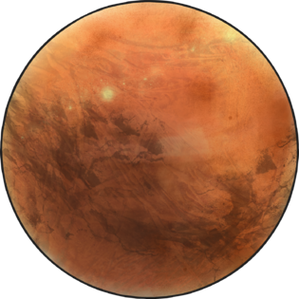
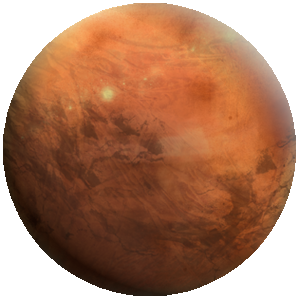
added ocean card, misc

Changed region(s): [[0.0, 0.0602, 0.903, 1.0], [0.2709, 0.0, 1.0, 0.7826]]

diff --git a/front/src/app/components/player-info/ocean-card/ocean-card.component.scss b/front/src/app/components/player-info/ocean-card/ocean-card.component.scss
@@ -1,0 +1,109 @@
+.main{
+	position: relative;
+	display: flex;
+	justify-content: center;
+	align-items: center;
+	height: 100%;
+	width: 100%;
+}
+.background{
+	position: absolute;
+	height: 100%;
+	width: 100%;
+	img {
+		height: 100%;
+		aspect-ratio: 1;
+	}
+}
+.foreground{
+	z-index: 1;
+	position: absolute;
+	width: 100%;
+	height: 100%;
+	border-radius: 50%;
+	background-image: linear-gradient(35deg, rgba(0,0,0, .4) 30%, transparent 40%, transparent 60%, rgba(255,255,255, .5) 80%);
+}
+.ocean-grid{
+	position: relative;
+	display: grid;
+	grid-template-columns: .5fr 1fr .5fr 1fr .5fr 1fr .5fr 1fr .5fr;
+	grid-template-rows: 1fr 1fr 1fr 1fr 1fr 1fr 1fr;
+
+	top: -3%;
+	left: 3%;
+	width: 75%;
+	height: 75%;
+}
+.ocean{
+	$width: 25%;
+	$border-thickness: 2px;
+	$inner-offset: calc($border-thickness / 2);
+
+	display: flex;
+	align-items: center;
+
+	width: 100%;
+	height: 100%;
+
+	.shape{
+		width: 95%;
+		height: 95%;
+		background-color: white;
+		-webkit-clip-path: polygon(0% 50%, #{$width} 0%, calc(100% - #{$width}) 0%, 100% 50%, calc(100% - #{$width}) 100%, #{$width} 100%);
+		clip-path: polygon(0% 50%, #{$width} 0%, calc(100% - #{$width}) 0%, 100% 50%, calc(100% - #{$width}) 100%, #{$width} 100%, 0% 50%, calc($border-thickness) 50%, calc($width + $inner-offset) calc(100% - $border-thickness), calc(100% - calc($width + $inner-offset)) calc(100% - $border-thickness), calc(100% - $border-thickness) 50%, calc(100% - calc($width + $inner-offset)) calc($border-thickness), calc($width + $inner-offset) calc($border-thickness), calc($border-thickness) 50%);
+	}
+}
+.--0{
+	grid-column-start: 1;
+	grid-column-end: 4;
+	grid-row-start: 3;
+	grid-row-end: 5;
+}
+.--1{
+	grid-column-start: 3;
+	grid-column-end: 6;
+	grid-row-start: 2;
+	grid-row-end: 4;
+}
+.--2{
+	grid-column-start: 5;
+	grid-column-end: 8;
+	grid-row-start: 1;
+	grid-row-end: 3;
+}
+.--3{
+	grid-column-start: 1;
+	grid-column-end: 4;
+	grid-row-start: 5;
+	grid-row-end: 7;
+}
+.--4{
+	grid-column-start: 3;
+	grid-column-end: 6;
+	grid-row-start: 4;
+	grid-row-end: 6;
+}
+.--5{
+	grid-column-start: 5;
+	grid-column-end: 8;
+	grid-row-start: 3;
+	grid-row-end: 5;
+}
+.--6{
+	grid-column-start: 3;
+	grid-column-end: 6;
+	grid-row-start: 6;
+	grid-row-end: 8;
+}
+.--7{
+	grid-column-start: 5;
+	grid-column-end: 8;
+	grid-row-start: 5;
+	grid-row-end: 7;
+}
+.--8{
+	grid-column-start: 7;
+	grid-column-end: 10;
+	grid-row-start: 4;
+	grid-row-end: 6;
+}

diff --git a/front/src/app/components/core-game/navigation/navigation.component.ts b/front/src/app/components/core-game/navigation/navigation.component.ts
@@ -5,6 +5,7 @@ import { PlayerPannelComponent } from '../../player-info/player-pannel/player-pa
 import { expandCollapseVertical } from '../../animations/animations';
 import { AnimationEvent } from '@angular/animations';
 import { GlobalParameterPannelComponent } from '../../player-info/global-parameter-pannel/global-parameter-pannel.component';
+import { OceanCardComponent } from '../../player-info/ocean-card/ocean-card.component';
 
 @Component({
 	selector: 'app-navigation',
@@ -12,7 +13,8 @@ import { GlobalParameterPannelComponent } from '../../player-info/global-paramet
 	imports: [
 		CommonModule,
 		PlayerPannelComponent,
-		GlobalParameterPannelComponent
+		GlobalParameterPannelComponent,
+		OceanCardComponent
 	],
 	templateUrl: './navigation.component.html',
 	styleUrl: './navigation.component.scss',

diff --git a/front/src/app/components/player-info/global-parameter-card/global-parameter-card.component.scss b/front/src/app/components/player-info/global-parameter-card/global-parameter-card.component.scss
@@ -1,3 +1,4 @@
+@use "sass:math";
 :host{
 	max-height: 100%;
 	width: 100%;
@@ -91,10 +92,10 @@ app-text-with-image{
 	height: 100%;
 
 	&.temperature{
-		width: calc(floor(100% / 20) );
+		width: floor(math.div(100%, 20));
 	}
 	&.oxygen, &.infrastructure{
-		width: calc(floor(100% / 15) );
+		width: floor(math.div(100%, 15));
 	}
 	&.current{
 		border: black 1px solid;

diff --git a/front/src/app/components/core-game/navigation/navigation.component.html b/front/src/app/components/core-game/navigation/navigation.component.html
@@ -3,7 +3,7 @@
 	(@expandCollapseVertical.done)="updateNavHeight()">
 	<div class="wrapper-global-parameter">
 		<div class="wrapper-global-ocean">
-			<img src="/assets/other/mars_planet.png" alt="awards here">
+			<app-ocean-card></app-ocean-card>
 		</div>
 		<div class="wrapper-global-other">
 			<app-global-parameter-pannel></app-global-parameter-pannel>

diff --git a/front/src/app/components/player-info/ocean-card/ocean-card.component.html b/front/src/app/components/player-info/ocean-card/ocean-card.component.html
@@ -1,0 +1,12 @@
+<div class="main">
+	<div class="background">
+		<img src="/assets/other/mars_planet.png" alt="mars background">
+	</div>
+	<div class="ocean-grid">
+		<div *ngFor="let id of [0,1,2,3,4,5,6,7,8]" class="ocean" [ngClass]="'--'+id">
+			<div class="shape"></div>
+		</div>
+	</div>
+	<div class="foreground"><div>
+	</div>
+

diff --git a/front/src/app/components/player-info/ocean-card/ocean-card.component.ts b/front/src/app/components/player-info/ocean-card/ocean-card.component.ts
@@ -1,0 +1,13 @@
+import { Component } from '@angular/core';
+import { CommonModule } from '@angular/common';
+
+@Component({
+  selector: 'app-ocean-card',
+  standalone: true,
+  imports: [CommonModule],
+  templateUrl: './ocean-card.component.html',
+  styleUrl: './ocean-card.component.scss'
+})
+export class OceanCardComponent {
+
+}

diff --git a/front/src/app/components/core-game/navigation/navigation.component.scss b/front/src/app/components/core-game/navigation/navigation.component.scss
@@ -42,10 +42,7 @@ $player-pannel-width: 60%;
 }
 .wrapper-global-ocean{
 	height: 100%;
-	img{
-		height: 100%;
-		aspect-ratio: 1;
-	}
+	aspect-ratio: 1;
 }
 .wrapper-global-other{
 	height: 100%;
